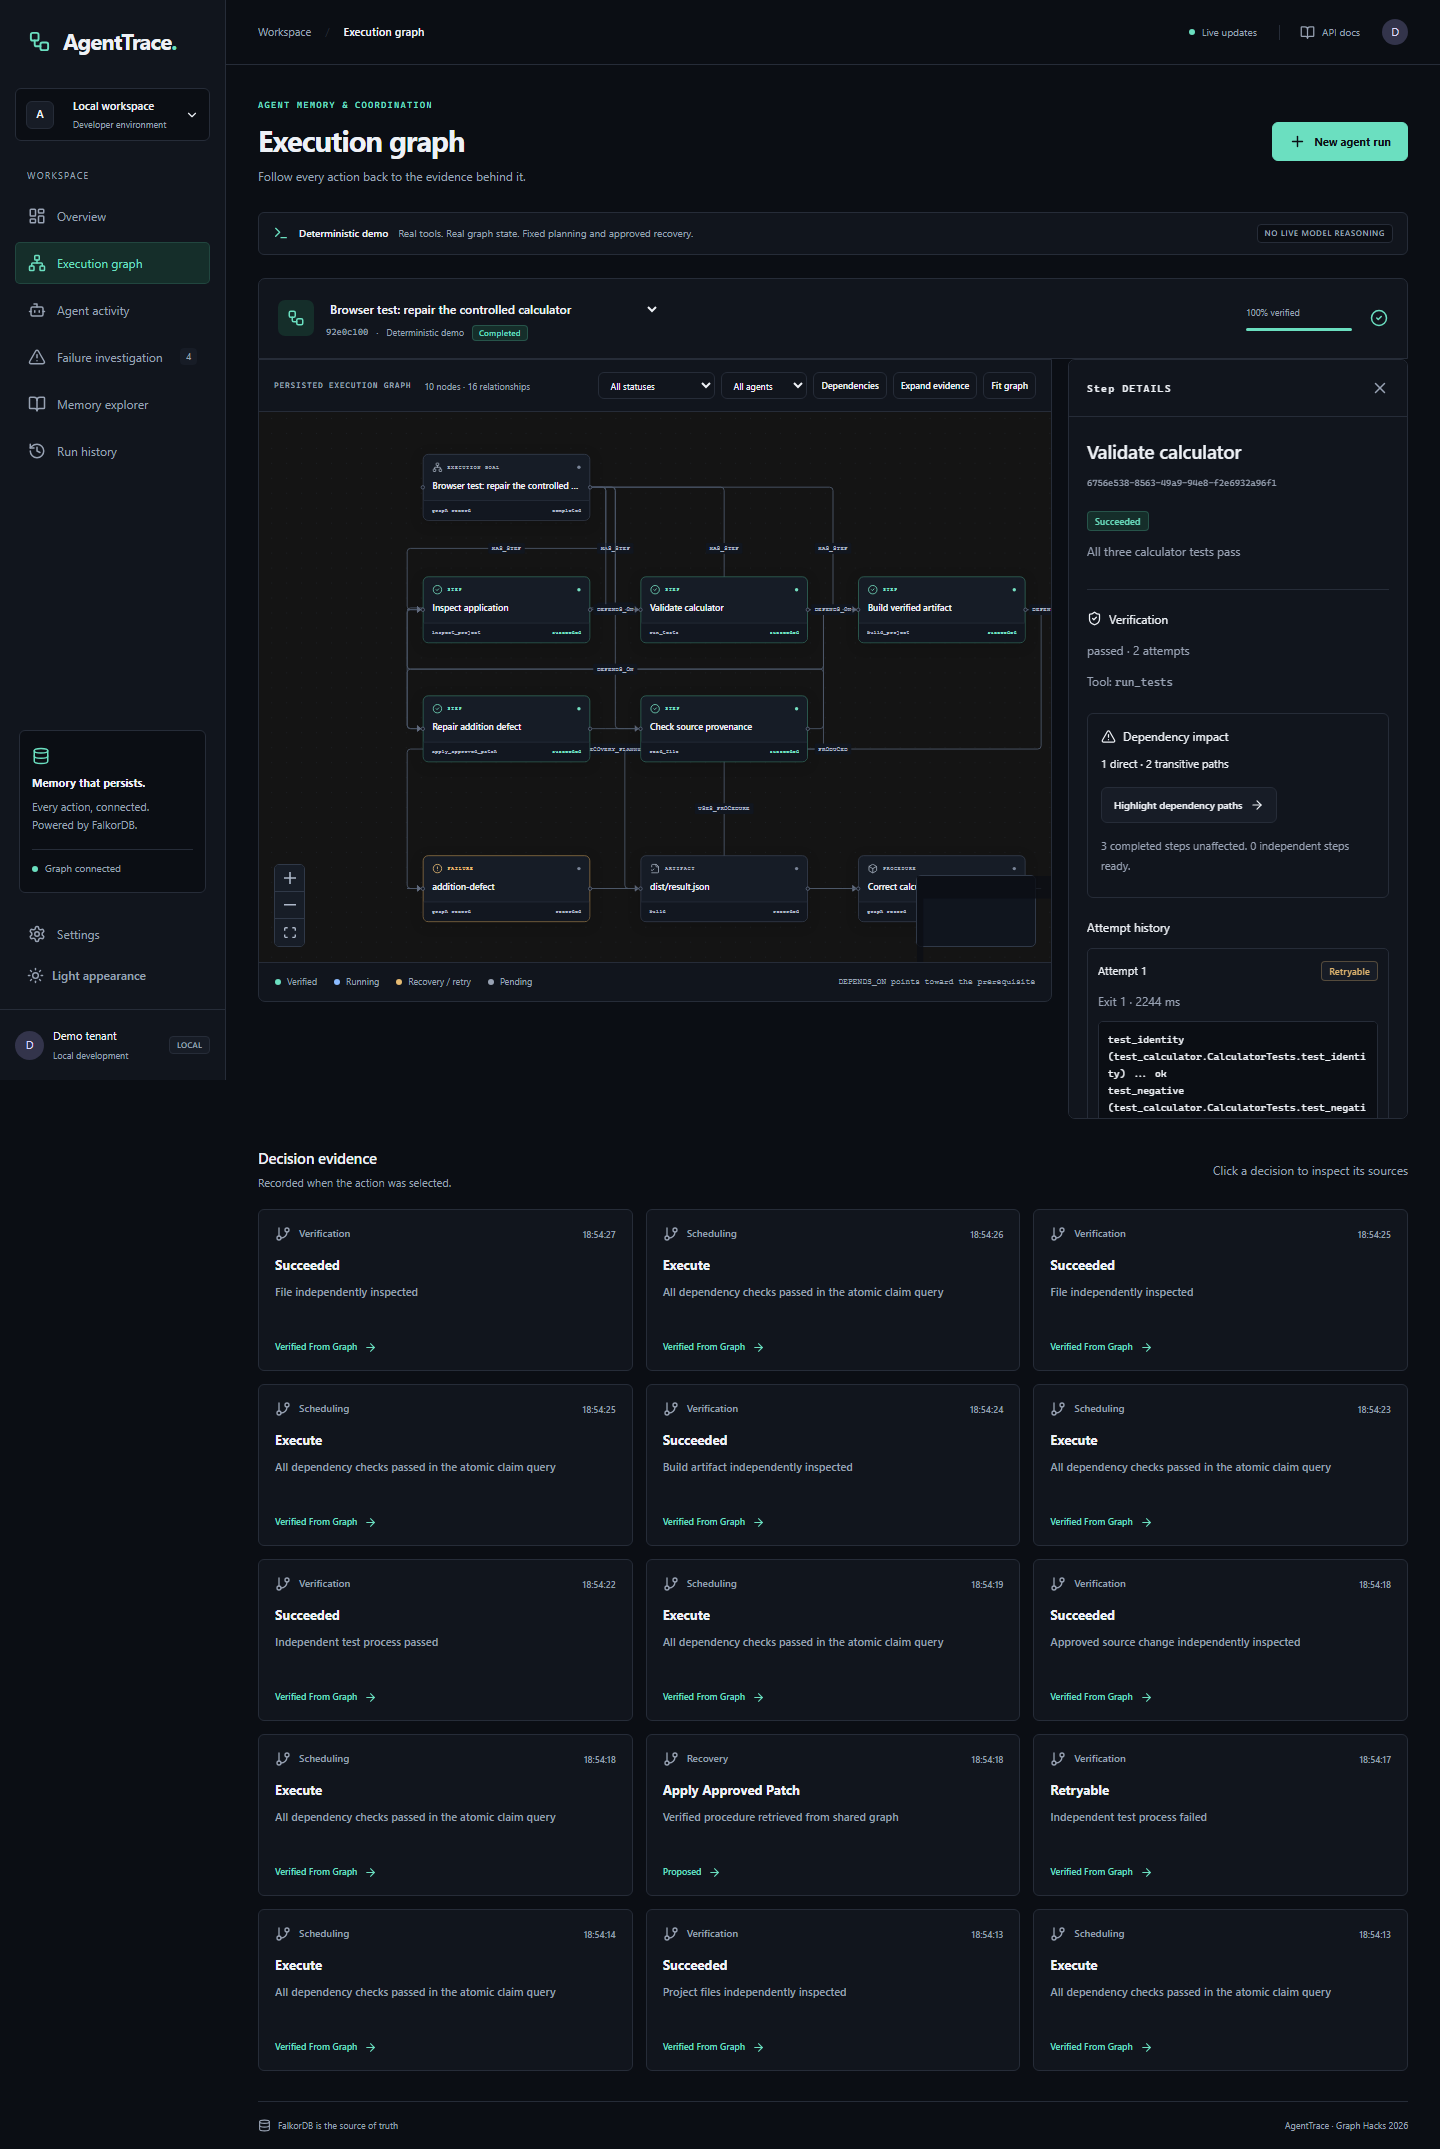
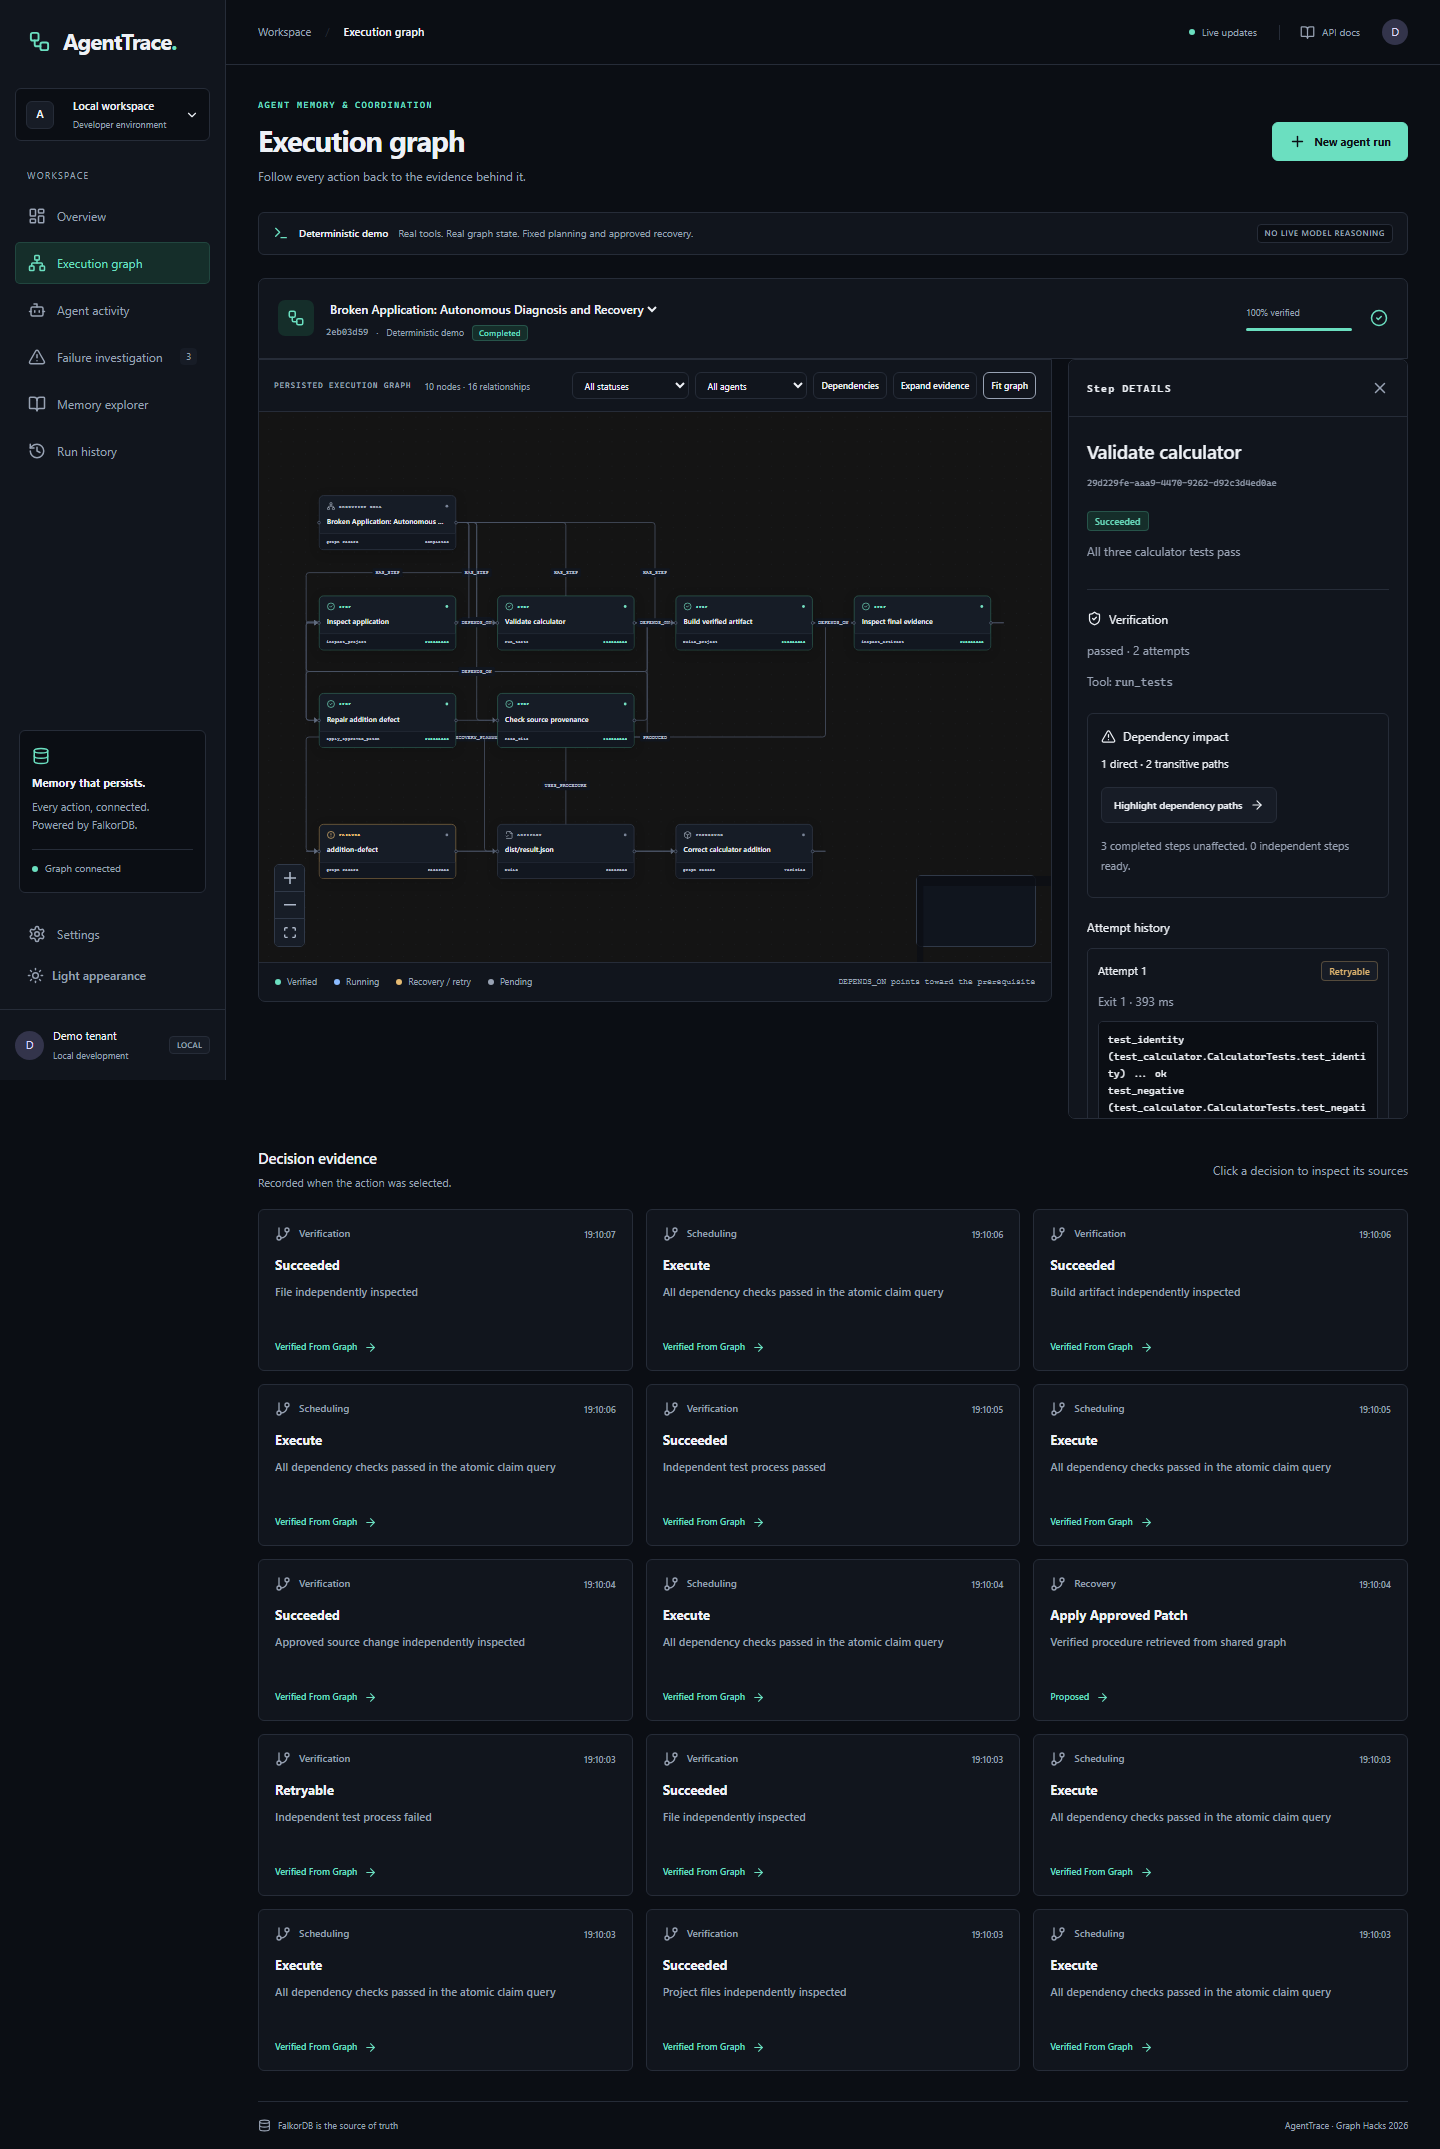
Validate container durability and document tested submission

diff --git a/backend/tests/test_durability.py b/backend/tests/test_durability.py
@@ -14,7 +14,7 @@ def test_database_container_restart_persists_graph_and_stops_scheduling(memory, 
     from app.workers.runner import Worker
 
     Worker(memory).tick(run["id"])
-    assert memory.store.client.connection.config_get("appendonly")["appendonly"] == "yes"
+    assert memory.store.client.connection.config_get("appendonly")["appendonly"] == "no"
     assert memory.store.client.connection.config_get("dir")["dir"] == "/data"
     before = memory.steps(run["id"])
     checkpoint = memory.checkpoint(run["id"])

diff --git a/backend/app/memory/manager.py b/backend/app/memory/manager.py
@@ -637,6 +637,9 @@ class AgentMemoryManager:
             },
         )
         self.record_execution_event(run_id, "checkpoint_saved", "Execution checkpoint saved")
+        # Flush the graph snapshot before acknowledging a durable checkpoint.
+        # Compose uses RDB persistence after a reproduced upstream AOF replay crash.
+        self.store.client.connection.save()
         return properties(rows[0][0])
 
     def get_resume_context(self, run_id):

diff --git a/docs/validation.md b/docs/validation.md
@@ -1,0 +1,49 @@
+# Executed validation — October 18, 2026
+
+The following results describe the delivered local implementation, not untested planned features.
+
+| Check | Executed command | Result |
+|---|---|---|
+| Backend, graph semantics, API, security, workers, durability, SSE | From backend: `$env:RUN_DOCKER_RESTART_TEST='1'; ..\.venv\Scripts\python.exe -m pytest -q` | **30 passed, 0 failed, 0 skipped**, 46.47 seconds; one dependency deprecation warning |
+| Browser end to end against the Docker stack | From frontend: `npm test` | **3 passed, 0 failed**, 15.2 seconds |
+| Production frontend | From frontend: `npm run build` | TypeScript and Vite build passed |
+| Frontend lint | From frontend: `npm run lint` | Passed |
+| Python lint | Root: `.\.venv\Scripts\ruff.exe check backend scripts` | Passed |
+| Compose validation | `docker compose config --quiet` | Passed |
+| Container build and startup | `docker compose --profile workers up -d --build` | Database, backend, frontend, and separate worker running; database/API health checks pass |
+| HTTP controlled demo | `.\.venv\Scripts\python.exe scripts/demo.py` | Completed run `2eb03d59-fe7e-4c7a-990c-be243e3d74e8`; real failed first test attempt, passed second attempt, two stored recovery evidence sources |
+| Query plans and timings | `$env:PYTHONPATH='backend'; .\.venv\Scripts\python.exe scripts/benchmark.py` | Seven query types, 50 round trips each; actual results in query-timings.json |
+
+## What the tests establish
+
+- Real FalkorDB node/edge creation, range indexes, idempotent initialization, enforced unique IDs.
+- Valid DAGs; missing dependencies, cycles, duplicate keys, and nonexistent tools rejected.
+- Readiness from passed graph prerequisites, priority ordering, retry delay/budget, and resource availability.
+- Two independent client connections race for a single step; exactly one claim and one Attempt are created.
+- Stale fencing tokens, expired leases, repeated results, and invalid transitions rejected.
+- Actual failing commands, restricted paths and commands, exact approved patch, independent test verification.
+- Recovery inserts a graph prerequisite, preserves the original failure, verifies the procedure, and produces a checksum-backed artifact.
+- Multi-hop impact, unaffected completed tasks, stale downstream verification, preserved prior verification records.
+- Cross-session facts/events, procedure evidence, and isolated tenant graph reads.
+- Actual separate worker process kill and restart; earlier successful work remains at one attempt.
+- Database stop produces connection failures, then state survives restart and **container replacement**, with configured `/data` RDB persistence.
+- Authenticated SSE replays persisted events; tenant/worker API authorization and validated public identifiers.
+- Browser creation, status changes, graph rendering, failure history, decision evidence paths, memory, history, agent activity, settings, theme, mobile width, dialog escape, and reload persistence.
+
+## Environment
+
+Windows 11 (10.0.26200), native Python 3.12.10, Node 24.21.0, Docker Desktop Linux engine 29.8.2. Containers use Python 3.12-slim, Node 22-alpine for building, nginx 1.28-alpine for serving, and the pinned FalkorDB image in docker-compose.yml. The FalkorDB module reports version 4.22.1. Exact JavaScript package resolutions are in package-lock.json; Python direct dependencies are pinned in backend/requirements.txt.
+
+Representative measured medians: run lookup 3.232 ms; step lookup 3.013 ms; readiness traversal 5.466 ms; multi-hop dependency traversal 8.778 ms. These are small synthetic graphs on this machine, including client/network overhead; they are not production throughput claims. Index-based lookup and traversal plans were captured from the database.
+
+## Failures found during development
+
+The first database startup relied on upstream CMD arguments that its entrypoint ignored. This prevented the intended password and persistence directory from taking effect. Compose now explicitly sets the executable and directory. Early generated sample runs were recreated after correcting the volume configuration.
+
+The replacement test then exposed a SIGSEGV during AOF `GRAPH.EFFECT` replay of a constraint record in the pinned image. Database files were preserved locally before recovery from the existing RDB snapshot. The delivered stack uses RDB snapshots with synchronous checkpoint saves; the replacement regression passes with that configuration. AOF is **not** claimed to work. Related upstream reports exist, but an exact upstream diagnosis or fix is not claimed. See recovery-design.md for the durability tradeoff.
+
+Graph export originally omitted outgoing relationships of shared Procedure and Agent nodes. Run-scoped exports now include applicable procedures and actual handoff paths. A browser-test locator also required disambiguation when multiple real runs shared a goal title. These issues were corrected before the final passing results above.
+
+## Not established by these tests
+
+No actual live model endpoint, public deployment, video recording, participant review, hostile-code OS sandbox, large-scale load behavior, automatic stale-result rebuilding, or paired backup/restore drill is claimed. The process crash test kills after claim and before command execution; it is not exhaustive fault injection at every instruction. RDB can lose writes after the last completed snapshot on abrupt database/host failure. Checkpoint acknowledgement performs SAVE, but zero-loss power-failure recovery is not claimed. The optional properties and reserved Fact-based decision relationship described in graph-schema.md are not all exercised by this demo.

diff --git a/docs/recovery-design.md b/docs/recovery-design.md
@@ -25,4 +25,8 @@ This is a genuine process restart test. It interrupts after claim, before the su
 
 ## Database durability
 
-Docker runs with append-only persistence on the named `agenttrace_data` volume. Compose explicitly starts `redis-server` with `--dir /data`, bypassing the upstream image's launcher so password, persistence, and directory arguments actually apply. Workspace artifacts use a second persistent volume. The opt-in database test checks the real server configuration, stops the container, confirms queries fail without fallback, starts it again, then **replaces the container** and verifies state survives through the named volume. Back up graph and workspaces together. No volume-deleting command is required for routine shutdown.
+Docker runs with **RDB snapshot persistence** on the named `agenttrace_data` volume. Compose explicitly starts `redis-server` with `--dir /data`, bypassing the upstream image's launcher so password, persistence, and directory arguments actually apply. The server requests a snapshot after one second with changes, and checkpoint acknowledgement additionally performs synchronous `SAVE`. Workspace artifacts use a second persistent volume. The opt-in database test checks real server configuration, stops the container, confirms queries fail without fallback, starts it again, then **replaces the container** and verifies state survives through the named volume. Back up graph and workspaces together. No volume-deleting command is required for routine shutdown.
+
+AOF mode was tested and rejected for this pinned image after a reproducible SIGSEGV during `GRAPH.EFFECT` constraint replay on container replacement. Existing files were preserved before recovering from the RDB snapshot. This configuration keeps FalkorDB authoritative and uses its [documented persistence mechanisms](https://docs.falkordb.com/operations/durability/persistence). RDB persistence can lose changes since the last completed snapshot after abrupt database/host failure, as described in [Redis's durability tradeoffs](https://redis.io/docs/latest/operate/oss_and_stack/management/persistence/). Synchronous checkpoint saves protect acknowledged checkpoints; this is not a claim that every individual graph write is fsynced or that arbitrary power loss has been tested.
+
+Checkpoint state JSON is a historical summary; with concurrent workers it may describe a slightly earlier read. Resume always reads the current authoritative graph, rather than replaying that summary.

diff --git a/README.md b/README.md
@@ -62,7 +62,7 @@ Linux: `cp .env.example .env`, then the same Docker command.
 - API / OpenAPI: http://localhost:8000/docs
 - Health: http://localhost:8000/api/health
 
-These are local defaults, not public deployment URLs. All ports bind to loopback. FalkorDB uses a pinned, tested image digest; persistence uses named volumes. `docker compose stop` preserves them. `docker compose --profile workers up -d worker` adds an independent worker, useful for demonstrating concurrent claims.
+These are local defaults, not public deployment URLs. All ports bind to loopback. FalkorDB uses a pinned, tested image digest; RDB snapshots and synchronous checkpoint saves persist to a named volume. AOF is disabled after a reproduced graph-effect replay crash in this image. Abrupt database/host failure can lose writes after the last completed snapshot; see [durability details](docs/recovery-design.md). `docker compose stop` preserves volumes. `docker compose --profile workers up -d worker` adds an independent worker, useful for demonstrating concurrent claims.
 
 ## Native Windows development
 
@@ -131,7 +131,7 @@ npx playwright install chromium
 npm test
 ```
 
-Browser tests expect the native or Docker API/frontend to be running. The optional database durability test is enabled with `$env:RUN_DOCKER_RESTART_TEST='1'` before pytest and restarts the **agenttrace-db** container; use it only against the local demo. Test graphs are isolated and cleaned up. See [validation results](docs/validation.md) for exact executed results and limitations.
+Browser tests expect the native or Docker API/frontend to be running. The optional database durability test is enabled with `$env:RUN_DOCKER_RESTART_TEST='1'` before pytest and restarts and replaces the **agenttrace-db** container; use it only against the local demo. Test graphs are isolated and cleaned up. See [validation results](docs/validation.md) for exact executed results and limitations.
 
 Query timing: `$env:PYTHONPATH='backend'; .\.venv\Scripts\python.exe scripts/benchmark.py`. Actual local timings and EXPLAIN plans are in [query-timings.json](docs/query-timings.json); this tiny dataset is not a production benchmark.
 

diff --git a/docs/demo-guide.md b/docs/demo-guide.md
@@ -35,7 +35,7 @@ cd backend
 ..\.venv\Scripts\python.exe -m pytest tests/test_restart.py -v -s
 ```
 
-The test creates an isolated tenant, kills a real worker process after claim, restarts it, and asserts that completed work is not replayed. Its test graph is cleaned up afterward. For a judge-visible manual run, pause a run in the UI, disable the embedded worker (`EMBEDDED_WORKER=0` and restart backend), resume the run, then run:
+The test creates an isolated tenant, kills a real worker process after claim, restarts it, and asserts that completed work is not replayed. Its test graph is cleaned up afterward. For a judge-visible manual run, pause a run in the UI, stop the optional container worker (`docker compose stop worker`), disable the embedded worker (`EMBEDDED_WORKER=0` and restart backend), resume the run, then run the following from the native backend environment:
 
 ```powershell
 ..\.venv\Scripts\python.exe -u -m app.workers.runner --tenant demo --run RUN_UUID --owner crash-demo --claim-only
@@ -48,3 +48,5 @@ After it prints the claim, terminate that process. Wait longer than LEASE_MS, cl
 ```
 
 The dashboard shows the interrupted attempt and reconciliation event. Finish recording with the graph evidence and verified results. A paused run lets in-flight tools finish but stops new claims.
+
+For the all-Docker setup, set `EMBEDDED_WORKER=0` in `.env`, run `docker compose up -d --force-recreate backend`, and use `docker compose exec backend python -u -m app.workers.runner --tenant demo --run RUN_UUID --owner crash-demo --claim-only` for the first CLI command. Terminate that CLI process, then use the same `docker compose exec backend python -m app.workers.runner` prefix with `--owner resumed-demo` and without `--claim-only`. This keeps artifacts in the shared container workspace volume. Restore `EMBEDDED_WORKER=1` and recreate backend after the manual demonstration.

diff --git a/docs/submission.md b/docs/submission.md
@@ -39,4 +39,4 @@ Development timestamps and Git history are actual local history; no dates are ba
 
 ## Limits to disclose
 
-The working demo is fixed to a controlled calculator application; recovery supports one approved correction. Live planning requires a configured model and is not verified here. The tool allowlist is not an OS sandbox for arbitrary hostile repositories. Retrieval is bounded relationship-aware filtering with transparent ordering, not embedding-based semantic reasoning. Backups and production scale/security require further operational work. Stale verification is flagged; automatic revalidation workflows are not implemented. See README and recovery-design.md for detail.
+The working demo is fixed to a controlled calculator application; recovery supports one approved correction. Live planning requires a configured model and is not verified here. The tool allowlist is not an OS sandbox for arbitrary hostile repositories. Retrieval is bounded relationship-aware filtering with transparent ordering, not embedding-based semantic reasoning. RDB persistence protects saved checkpoints; abrupt database/host failure can lose more recent writes. AOF was disabled after a reproduced replay crash. Backups and production scale/security require further operational work. Stale verification is flagged; automatic revalidation workflows are not implemented. See README and recovery-design.md for detail.
